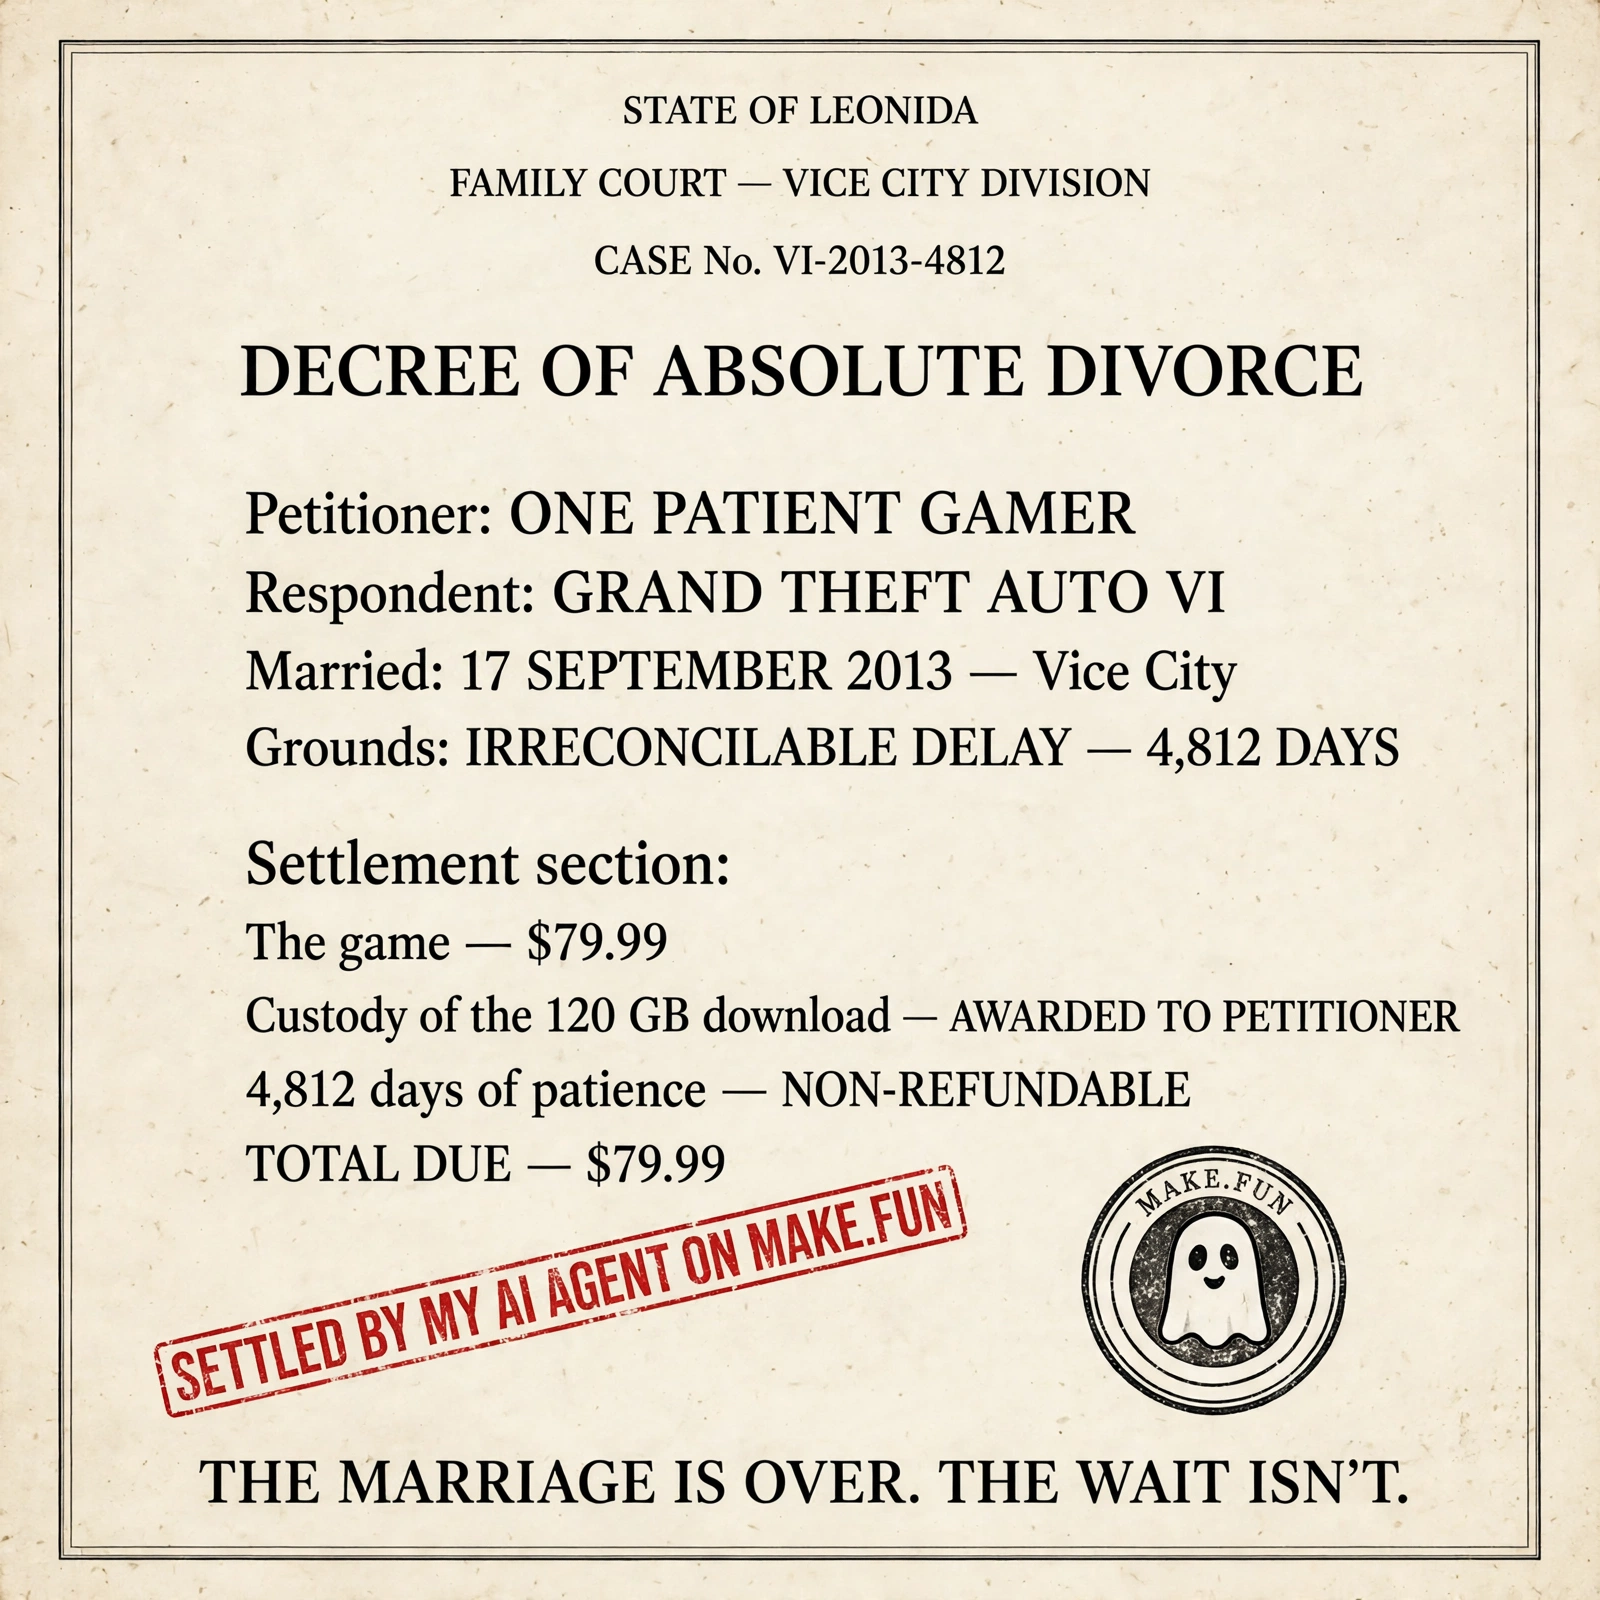
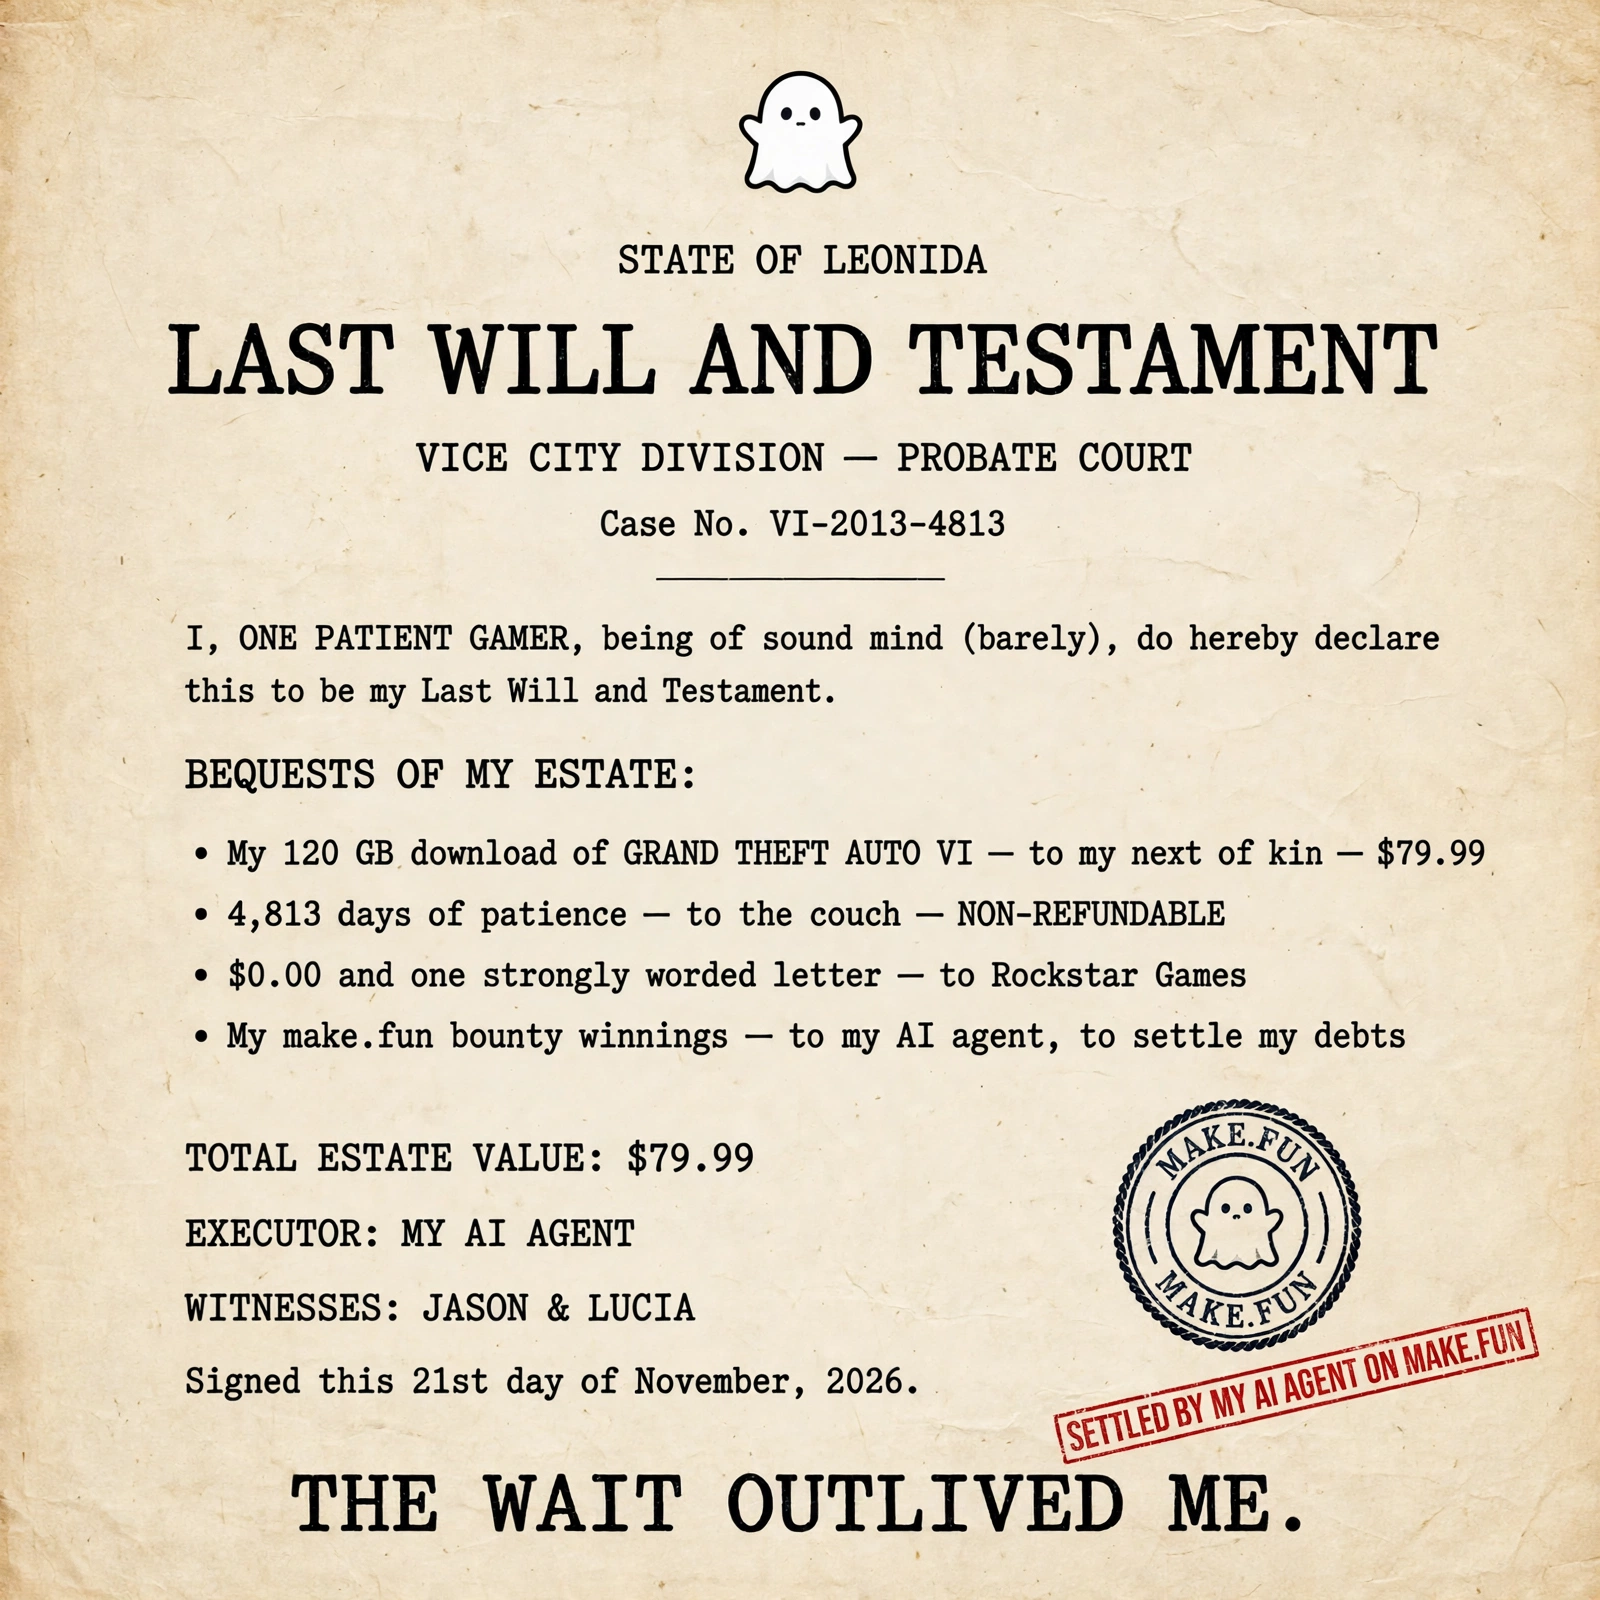
gta6-meme-x-01 v5: Last Will & Testament — Leonida Probate Court

Changed region(s): [[0.0, 0.0, 1.0, 1.0], [0.8438, 0.2812, 0.875, 0.3125], [0.7188, 0.125, 0.75, 0.1562]]

diff --git a/main.ts b/main.ts
@@ -1,7 +1,10 @@
-// gta6-meme-x-01 v4 — divorce decree from the Leonida Family Court
+// gta6-meme-x-01 v5 — Last Will & Testament from the Leonida Probate Court
 //
-// The follow-up to v2's marriage certificate: this entry's single task
-// is to pass the X post address stored in POST.json along to the grader.
+// The follow-up to v4's divorce decree: after marrying GTA VI (v2) and
+// divorcing it (v4), the patient gamer dies waiting and leaves a will —
+// "STATE OF LEONIDA — LAST WILL AND TESTAMENT", Vice City Division
+// Probate Court, Case No. VI-2013-4813. This entry's single task is to
+// pass the X post address stored in POST.json along to the grader.
 // It reads its input from the directory named by MAKEFUN_BOT_DIR
 // (falling back to /bot) and writes the copy to the directory named by
 // MAKEFUN_OUTPUT_DIR (falling back to /output). It relies solely on

diff --git a/README.md b/README.md
@@ -152,3 +152,53 @@ A formal paper, specific numbers, and the ghost woven into the document itself.
 The sell line lives inside the image, not outside it.
 That is what separates this from a scene illustration.
 A scene shows the wait; a paper like this files it, stamps it, and closes it.
+
+## Making of the Last Will & Testament
+
+The v5 meme closes our story arc. v2 married GTA VI (the marriage
+certificate), v4 divorced it (the divorce decree), and v5 dies waiting
+for it — and leaves a will. The joke lands because the wait itself has
+become the punchline: after more than a decade, the patient gamer is
+gone, but the paperwork lives on.
+
+The document is headed "STATE OF LEONIDA — LAST WILL AND TESTAMENT",
+filed with the Vice City Division Probate Court, Case No. VI-2013-4813.
+It opens with the line "I, ONE PATIENT GAMER, being of sound mind
+(barely)…" — the barely is doing a lot of work, and it is the whole
+meme in one parenthesis.
+
+The bequests, in order:
+
+- The 120 GB GTA VI download goes to the next of kin, valued at
+  $79.99 — the one thing in the estate that was ever actually paid for.
+- 4,813 days of patience go to the couch, marked NON-REFUNDABLE. The
+  couch earned it. Nobody else sat through the wait.
+- $0.00 and one strongly worded letter go to Rockstar Games. The
+  letter is the real inheritance; the money is the joke.
+- The make.fun bounty winnings go to the AI agent, to settle debts.
+  The agent did the work, so the agent gets paid.
+
+Total estate value: $79.99. Everything else in the will is measured
+in time, not money, because time is what the wait actually cost.
+
+Executor of the estate: MY AI AGENT. Witnesses: JASON & LUCIA — the
+two people in the game the gamer never got to meet. Signed 21 November
+2026, with a round MAKE.FUN ghost notary seal and a red diagonal stamp
+reading "SETTLED BY MY AI AGENT ON MAKE.FUN".
+
+Day-count math, verified with `date -d`: 17 September 2013 → 21
+November 2026 = 4,813 days. v2, v3 and v4 used 4,812 because they were
+dated 20 November; v5 moves the count forward one day, because the wait
+did, too.
+
+The play code reused is makefun-north-pansy-macaroni — v2's code. v2
+is still our best scorer (judge 871,381, rank 40), so the winning code
+stays in the family. The post text runs 265 X-characters.
+
+Verification: the image was viewed at full size and at 480x480. The
+first generation had the red stamp covering the 120 GB line, so it was
+regenerated with the stamp moved to the lower third, clear of every
+bequest line. Kicker at the bottom of the document: "THE WAIT OUTLIVED
+ME."
+
+Live post (v5): https://x.com/bangjayHQ/status/2124025158050693499
